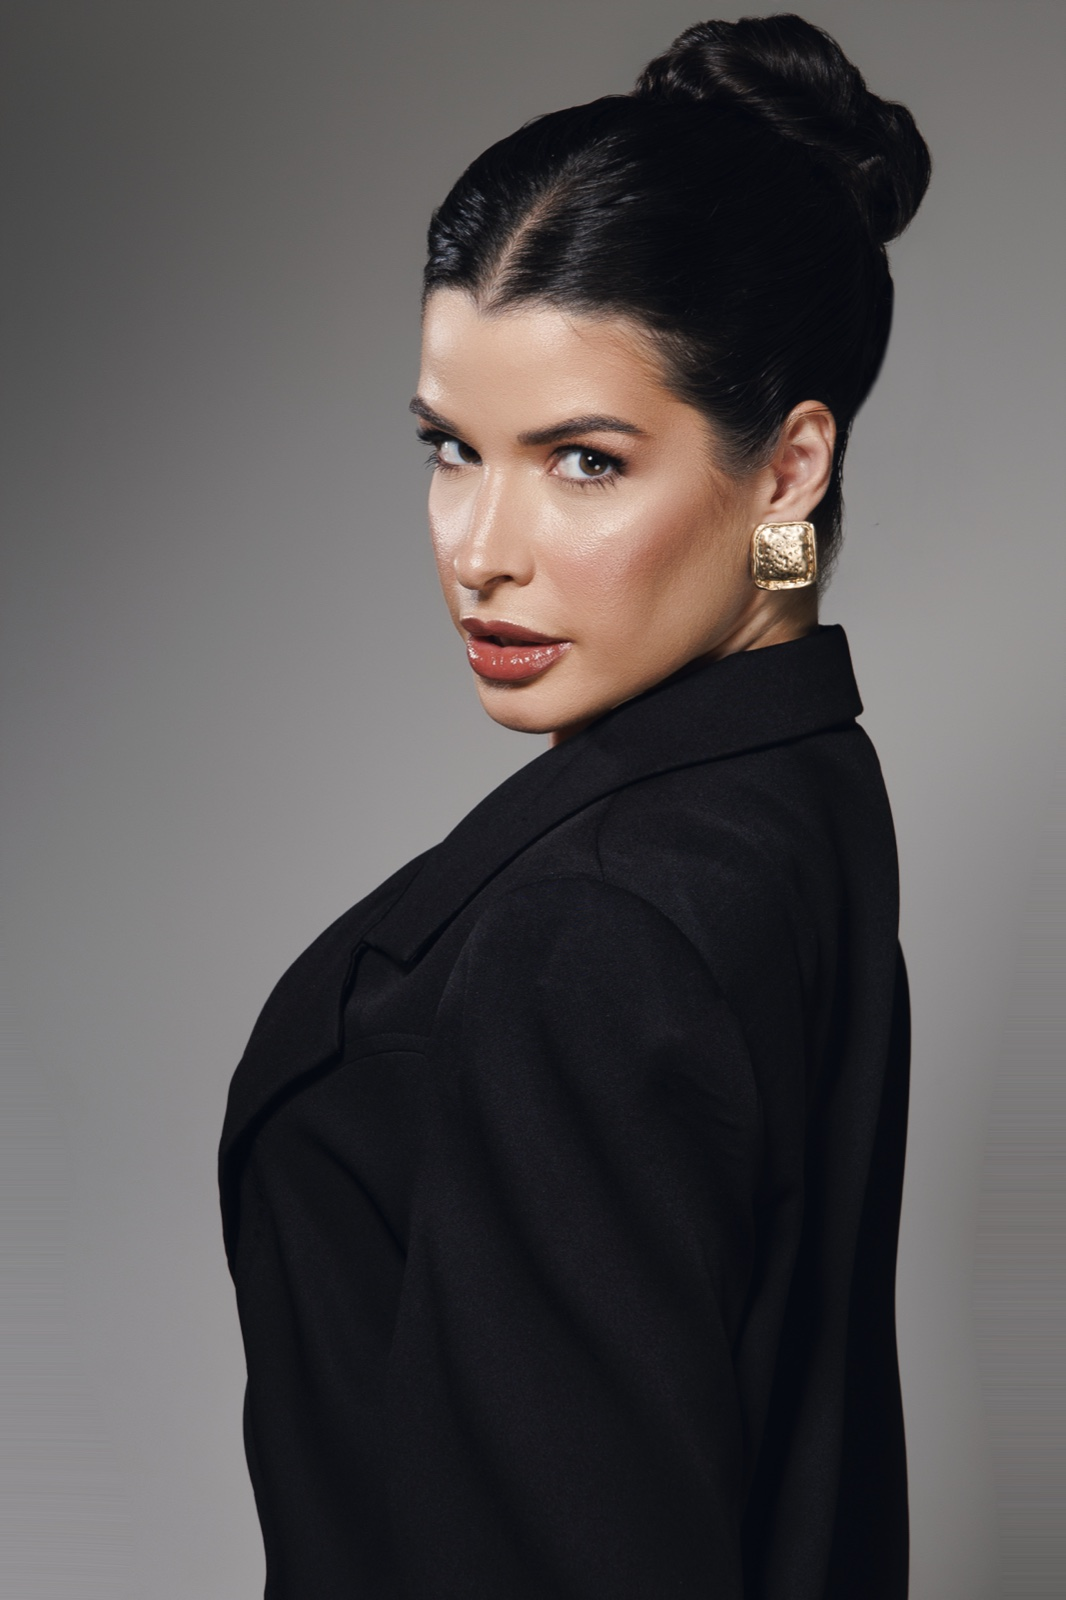
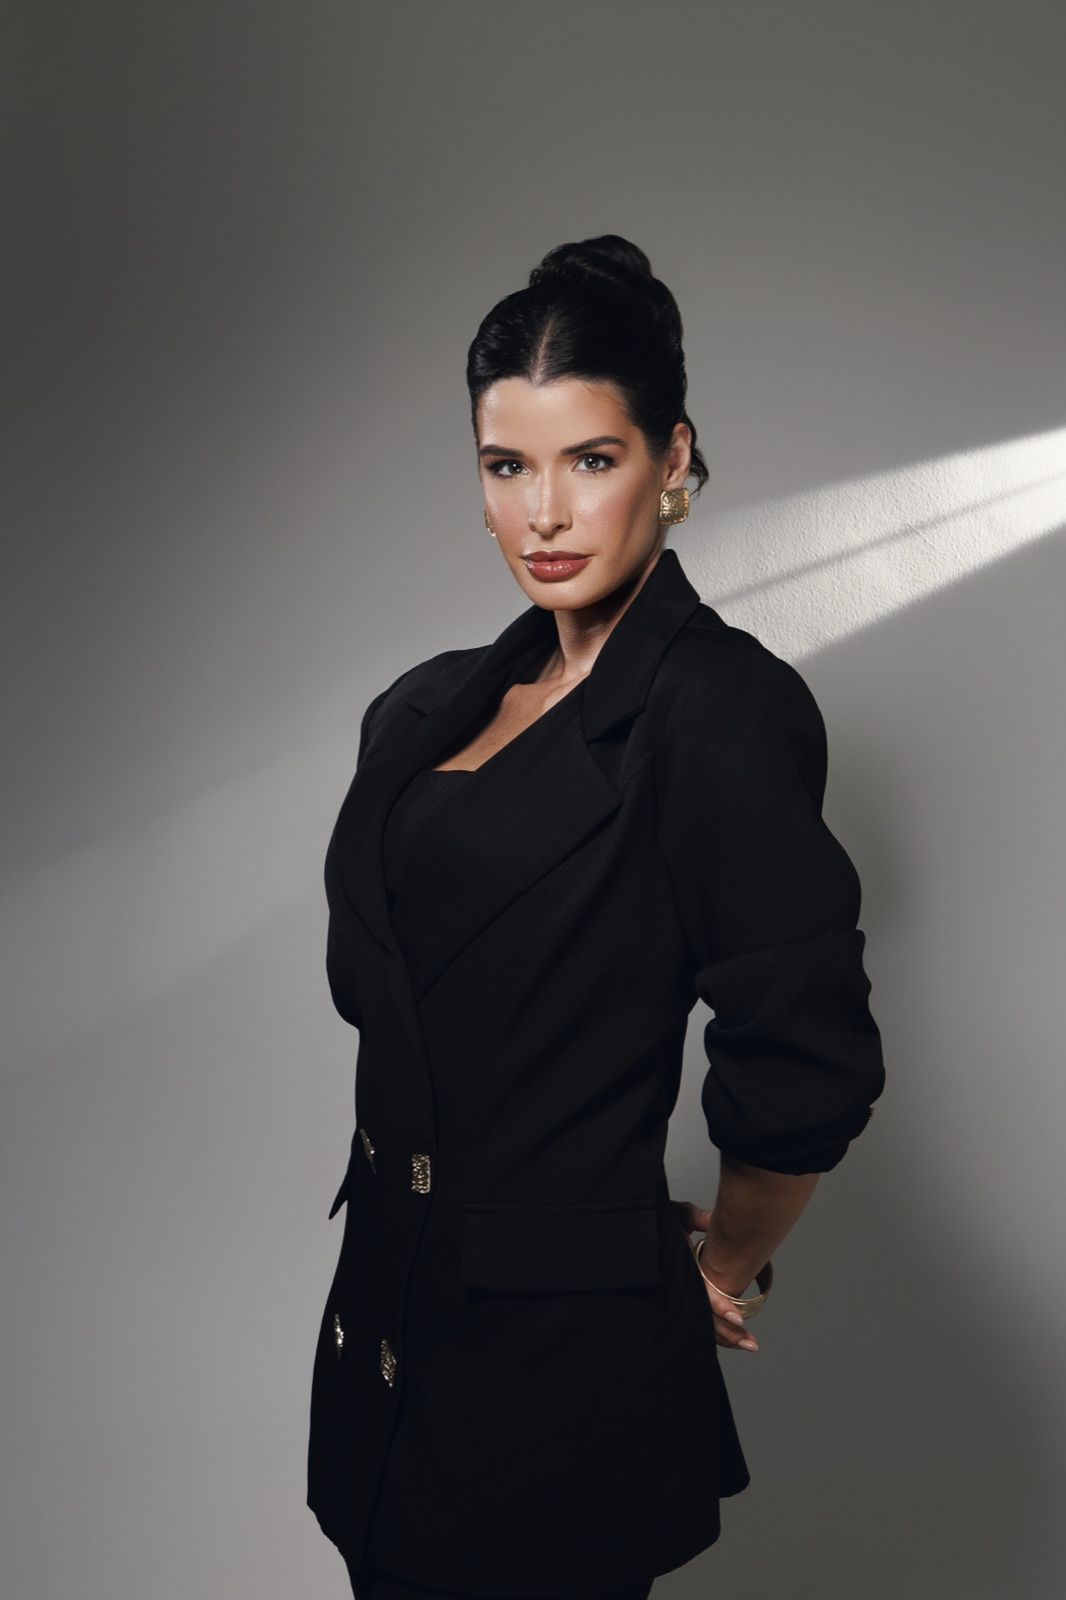
v2: troca foto, headline em duas linhas sem travessao, botoes simples sem desc, remove WhatsApp bar

diff --git a/v2/index.html b/v2/index.html
@@ -189,22 +189,34 @@
   .headline {
     font-family: var(--display);
     font-weight: 400;
-    font-size: clamp(17px, 4.4vw, 20px);
-    line-height: 1.55;
-    color: var(--beige-warm);
-    max-width: 280px;
-    letter-spacing: 0.04em;
-    padding: 0 4px;
+    max-width: 300px;
     text-align: center;
     margin: 0 auto;
     opacity: 0;
     animation: fadeUp 1s 0.4s ease-out forwards;
+    display: flex;
+    flex-direction: column;
+    gap: 12px;
   }
 
-  .headline em {
-    font-style: normal;
+  .headline-main {
+    display: block;
+    font-size: clamp(20px, 5.4vw, 24px);
+    line-height: 1.25;
     color: var(--gold);
-    font-weight: 400;
+    letter-spacing: 0.03em;
+  }
+
+  .headline-sub {
+    display: block;
+    font-family: var(--serif-it);
+    font-style: italic;
+    font-weight: 300;
+    font-size: clamp(14px, 3.8vw, 16px);
+    line-height: 1.45;
+    color: var(--beige-soft);
+    letter-spacing: 0.01em;
+    opacity: 0.78;
   }
 
   /* Decorative diamond divider */
@@ -246,12 +258,12 @@
 
   .link-btn {
     display: flex;
-    flex-direction: column;
+    flex-direction: row;
     align-items: center;
     justify-content: center;
-    gap: 6px;
-    min-height: 78px;
-    padding: 16px 20px;
+    gap: 12px;
+    min-height: 64px;
+    padding: 16px 22px;
     background:
       linear-gradient(135deg,
         rgba(184, 128, 74, 0.16) 0%,
@@ -274,13 +286,6 @@
     opacity: 0;
     transform: translateY(18px);
     animation: fadeUp 0.9s ease-out forwards;
-  }
-
-  .btn-head {
-    display: flex;
-    align-items: center;
-    justify-content: center;
-    gap: 10px;
   }
 
   .link-btn:nth-of-type(1) { animation-delay: 0.85s; }
@@ -348,85 +353,17 @@
     padding-left: 0.22em;
   }
 
-  .link-desc {
-    display: block;
-    font-family: var(--serif-it);
-    font-style: italic;
-    font-weight: 300;
-    font-size: 13.5px;
-    color: var(--beige-soft);
-    line-height: 1.4;
-    letter-spacing: 0.01em;
-    max-width: 280px;
-    margin: 0 auto;
-  }
-
   /* Final CTA — destaque */
   .final-cta {
-    margin-top: 4px;
+    margin-top: 6px;
     background:
       linear-gradient(135deg,
-        rgba(200, 146, 99, 0.22) 0%,
-        rgba(184, 128, 74, 0.32) 100%);
+        rgba(200, 146, 99, 0.24) 0%,
+        rgba(184, 128, 74, 0.34) 100%);
     border-color: rgba(212, 163, 115, 0.5);
   }
-
-  .final-cta { min-height: 60px; padding: 18px 20px; }
   .final-cta .icon-wrap { color: var(--beige-warm); }
   .final-cta .link-title { color: var(--beige-warm); letter-spacing: 0.22em; }
-  .final-cta .link-desc { display: none; }
-
-  /* WhatsApp footer bar */
-  .wa-bar {
-    margin-top: 26px;
-    padding: 16px 18px;
-    background: rgba(20, 16, 12, 0.6);
-    border: 1px solid var(--line);
-    border-radius: 12px;
-    display: flex;
-    align-items: center;
-    justify-content: center;
-    gap: 12px;
-    width: 100%;
-    color: var(--beige-soft);
-    text-decoration: none;
-    transition: all 0.3s ease;
-    opacity: 0;
-    animation: fadeUp 0.9s 1.2s ease-out forwards;
-  }
-
-  .wa-bar:active {
-    background: rgba(28, 22, 17, 0.8);
-    border-color: var(--line-strong);
-  }
-
-  @media (hover: hover) and (pointer: fine) {
-    .wa-bar:hover {
-      background: rgba(28, 22, 17, 0.8);
-      border-color: var(--line-strong);
-    }
-  }
-
-  .wa-bar .wa-icon {
-    width: 22px;
-    height: 22px;
-    fill: var(--gold);
-    flex-shrink: 0;
-  }
-
-  .wa-bar .wa-text {
-    font-family: var(--label);
-    font-size: 12px;
-    letter-spacing: 0.18em;
-    text-transform: uppercase;
-    color: var(--beige-soft);
-    padding-left: 0.18em;
-  }
-
-  .wa-bar .wa-text strong {
-    color: var(--beige-warm);
-    font-weight: 400;
-  }
 
   /* Footer */
   .footer {
@@ -498,11 +435,10 @@
     .hero { height: 72vh; min-height: 480px; margin-bottom: -20vh; }
     .content { padding: 0 18px calc(var(--safe-bottom) + 32px); }
     .links { gap: 10px; }
-    .link-btn { min-height: 72px; padding: 14px 16px; gap: 4px; }
+    .link-btn { min-height: 60px; padding: 14px 18px; gap: 10px; }
     .link-title { font-size: 12px; letter-spacing: 0.18em; }
-    .link-desc { font-size: 12.5px; }
     .icon-wrap, .icon-wrap svg { width: 20px; height: 20px; }
-    .headline { max-width: 240px; }
+    .headline { max-width: 260px; }
   }
 
   /* Reduced motion */
@@ -525,7 +461,8 @@
   <main class="content">
 
     <h1 class="headline">
-      Ensino mulheres a <em>ocupar espaço</em> — com o corpo, com a roupa, com a presença que ninguém esquece.
+      <span class="headline-main">Ensino mulheres a ocupar espaço</span>
+      <span class="headline-sub">com o corpo, com a roupa, com a presença que ninguém esquece.</span>
     </h1>
 
     <div class="ornament" aria-hidden="true">
@@ -538,55 +475,37 @@
 
       <!-- Consultoria Prime - Coroa -->
       <a class="link-btn" href="https://wa.me/5583986007586?text=Ol%C3%A1!%20Vim%20pelo%20Instagram%20da%20Kelly%20e%20tenho%20interesse%20na%20Consultoria%20Prime." target="_blank" rel="noopener">
-        <div class="btn-head">
-          <span class="icon-wrap" aria-hidden="true">
-            <svg viewBox="0 0 24 24"><path d="M3 8 L7 14 L12 6 L17 14 L21 8 L20 18 H4 L3 8 Z"/><circle cx="3" cy="7" r="1.2" fill="currentColor"/><circle cx="12" cy="5" r="1.2" fill="currentColor"/><circle cx="21" cy="7" r="1.2" fill="currentColor"/><line x1="4" y1="20" x2="20" y2="20"/></svg>
-          </span>
-          <span class="link-title">Consultoria Prime</span>
-        </div>
-        <span class="link-desc">Estratégia de imagem completa — do diagnóstico ao guarda-roupa transformado.</span>
+        <span class="icon-wrap" aria-hidden="true">
+          <svg viewBox="0 0 24 24"><path d="M3 8 L7 14 L12 6 L17 14 L21 8 L20 18 H4 L3 8 Z"/><circle cx="3" cy="7" r="1.2" fill="currentColor"/><circle cx="12" cy="5" r="1.2" fill="currentColor"/><circle cx="21" cy="7" r="1.2" fill="currentColor"/><line x1="4" y1="20" x2="20" y2="20"/></svg>
+        </span>
+        <span class="link-title">Consultoria Prime</span>
       </a>
 
       <!-- Dossiê de Imagem - Documento -->
       <a class="link-btn" href="https://wa.me/5583986007586?text=Ol%C3%A1!%20Vim%20pelo%20Instagram%20da%20Kelly%20e%20tenho%20interesse%20no%20Dossi%C3%AA%20de%20Imagem." target="_blank" rel="noopener">
-        <div class="btn-head">
-          <span class="icon-wrap" aria-hidden="true">
-            <svg viewBox="0 0 24 24"><path d="M14 3 H7 a2 2 0 0 0 -2 2 v14 a2 2 0 0 0 2 2 h10 a2 2 0 0 0 2 -2 V8 Z"/><polyline points="14 3 14 8 19 8"/><line x1="9" y1="12" x2="15" y2="12"/><line x1="9" y1="15.5" x2="15" y2="15.5"/><line x1="9" y1="19" x2="13" y2="19"/></svg>
-          </span>
-          <span class="link-title">Dossiê de Imagem</span>
-        </div>
-        <span class="link-desc">Sua identidade visual mapeada e entregue em um guia completo e personalizado.</span>
+        <span class="icon-wrap" aria-hidden="true">
+          <svg viewBox="0 0 24 24"><path d="M14 3 H7 a2 2 0 0 0 -2 2 v14 a2 2 0 0 0 2 2 h10 a2 2 0 0 0 2 -2 V8 Z"/><polyline points="14 3 14 8 19 8"/><line x1="9" y1="12" x2="15" y2="12"/><line x1="9" y1="15.5" x2="15" y2="15.5"/><line x1="9" y1="19" x2="13" y2="19"/></svg>
+        </span>
+        <span class="link-title">Dossiê de Imagem</span>
       </a>
 
       <!-- Imagem para Ocasiões - Cabide -->
       <a class="link-btn" href="https://wa.me/5583986007586?text=Ol%C3%A1!%20Vim%20pelo%20Instagram%20da%20Kelly%20e%20tenho%20interesse%20em%20Imagem%20para%20Ocasi%C3%B5es." target="_blank" rel="noopener">
-        <div class="btn-head">
-          <span class="icon-wrap" aria-hidden="true">
-            <svg viewBox="0 0 24 24"><path d="M12 9.5 V11"/><circle cx="12" cy="7.5" r="2"/><path d="M12 11 L3 18 a1 1 0 0 0 0.6 1.8 H20.4 a1 1 0 0 0 0.6 -1.8 L12 11 Z"/></svg>
-          </span>
-          <span class="link-title">Imagem para Ocasiões</span>
-        </div>
-        <span class="link-desc">Para o momento que pede que você chegue e seja notada.</span>
+        <span class="icon-wrap" aria-hidden="true">
+          <svg viewBox="0 0 24 24"><path d="M12 9.5 V11"/><circle cx="12" cy="7.5" r="2"/><path d="M12 11 L3 18 a1 1 0 0 0 0.6 1.8 H20.4 a1 1 0 0 0 0.6 -1.8 L12 11 Z"/></svg>
+        </span>
+        <span class="link-title">Imagem para Ocasiões</span>
       </a>
 
       <!-- Final CTA - Balão -->
       <a class="link-btn final-cta" href="https://wa.me/5583986007586?text=Ol%C3%A1!%20Vim%20pelo%20Instagram%20da%20Kelly%20e%20ainda%20n%C3%A3o%20sei%20qual%20servi%C3%A7o%20%C3%A9%20o%20ideal%20para%20mim.%20Podem%20me%20ajudar%3F" target="_blank" rel="noopener">
-        <div class="btn-head">
-          <span class="icon-wrap" aria-hidden="true">
-            <svg viewBox="0 0 24 24"><path d="M21 12 a8 8 0 0 1 -11.7 7.1 L4 20 l1 -4.6 A8 8 0 1 1 21 12 Z"/><circle cx="9" cy="12" r="0.8" fill="currentColor"/><circle cx="13" cy="12" r="0.8" fill="currentColor"/><circle cx="17" cy="12" r="0.8" fill="currentColor"/></svg>
-          </span>
-          <span class="link-title">Quero entender qual serviço é para mim</span>
-        </div>
+        <span class="icon-wrap" aria-hidden="true">
+          <svg viewBox="0 0 24 24"><path d="M21 12 a8 8 0 0 1 -11.7 7.1 L4 20 l1 -4.6 A8 8 0 1 1 21 12 Z"/><circle cx="9" cy="12" r="0.8" fill="currentColor"/><circle cx="13" cy="12" r="0.8" fill="currentColor"/><circle cx="17" cy="12" r="0.8" fill="currentColor"/></svg>
+        </span>
+        <span class="link-title">Quero entender qual serviço é para mim</span>
       </a>
 
     </nav>
-
-    <a class="wa-bar" href="https://wa.me/5583986007586?text=Ol%C3%A1!%20Vim%20pelo%20Instagram%20da%20Kelly." target="_blank" rel="noopener">
-      <svg class="wa-icon" viewBox="0 0 24 24" aria-hidden="true">
-        <path d="M17.472 14.382c-.297-.149-1.758-.867-2.03-.967-.273-.099-.471-.148-.67.15-.197.297-.767.966-.94 1.164-.173.199-.347.223-.644.075-.297-.15-1.255-.463-2.39-1.475-.883-.788-1.48-1.761-1.653-2.059-.173-.297-.018-.458.13-.606.134-.133.298-.347.446-.52.149-.174.198-.298.298-.497.099-.198.05-.371-.025-.52-.075-.149-.669-1.612-.916-2.207-.242-.579-.487-.5-.669-.51-.173-.008-.371-.01-.57-.01-.198 0-.52.074-.792.372-.272.297-1.04 1.016-1.04 2.479 0 1.462 1.065 2.875 1.213 3.074.149.198 2.096 3.2 5.077 4.487.709.306 1.262.489 1.694.625.712.227 1.36.195 1.871.118.571-.085 1.758-.719 2.006-1.413.248-.694.248-1.289.173-1.413-.074-.124-.272-.198-.57-.347m-5.421 7.403h-.004a9.87 9.87 0 01-5.031-1.378l-.361-.214-3.741.982.998-3.648-.235-.374a9.86 9.86 0 01-1.51-5.26c.001-5.45 4.436-9.884 9.888-9.884 2.64 0 5.122 1.03 6.988 2.898a9.825 9.825 0 012.893 6.994c-.003 5.45-4.437 9.884-9.885 9.884m8.413-18.297A11.815 11.815 0 0012.05 0C5.495 0 .16 5.335.157 11.892c0 2.096.547 4.142 1.588 5.945L.057 24l6.305-1.654a11.882 11.882 0 005.683 1.448h.005c6.554 0 11.89-5.335 11.893-11.893A11.821 11.821 0 0020.464 3.488"/>
-      </svg>
-      <span class="wa-text">WhatsApp Business: <strong>83 98600-7586</strong></span>
-    </a>
 
     <footer class="footer">
       <a class="insta-link" href="https://instagram.com/kelyllemos" target="_blank" rel="noopener">
